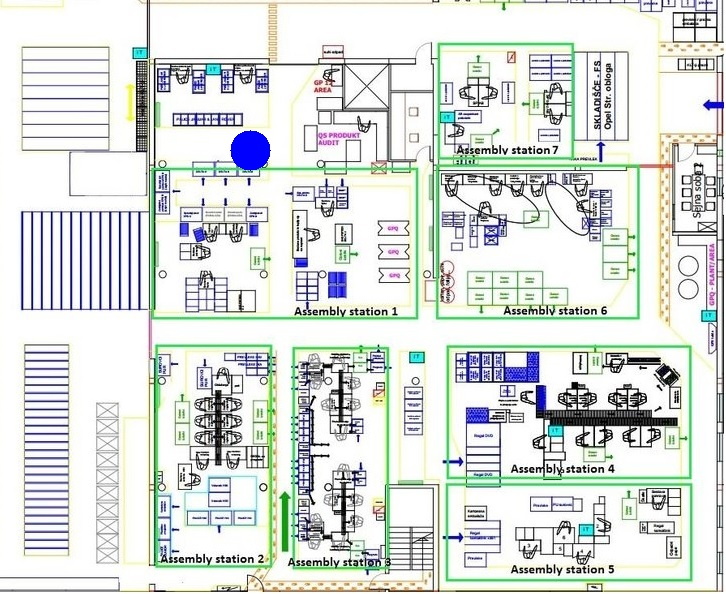
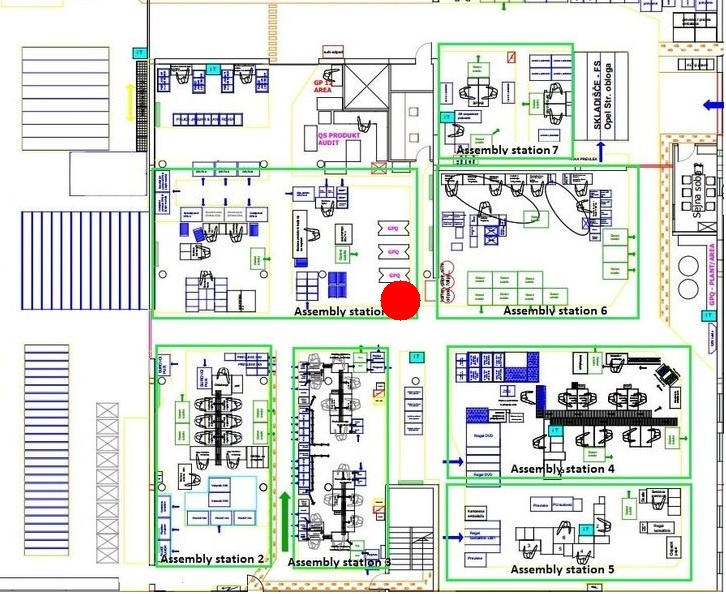
cf

Changed region(s): [[0.303, 0.2121, 0.3939, 0.303], [0.5152, 0.4545, 0.5758, 0.5455]]

diff --git a/templates/locate.html b/templates/locate.html
@@ -21,7 +21,7 @@
 
 
   <div class="text-center">
-<img src="{{ url_for('static',filename='layout.jpg') }}" class="mx-auto d-block img-thumbnail"  alt="Responsive image">
+<img src="{{ url_for('static',filename= img_path) }}" class="mx-auto d-block img-thumbnail"  alt="Responsive image">
 </div>
 </div>
 

diff --git a/webapp.py b/webapp.py
@@ -4,7 +4,8 @@ Created on Tue Jun 30 13:22:16 2020
 
 @author: PAVA
 """
-import openCV
+import cv2
+import os
 
 from flask import (
     Flask, 
@@ -12,7 +13,8 @@ from flask import (
     request, 
     redirect, 
     url_for, 
-    flash
+    flash,
+    make_response
 )
 from flask_login import (
     LoginManager,
@@ -195,18 +197,34 @@ def delete(tag_id):
 @app.route ('/locate', methods = ['GET','POST'])
 def locate():
     all_data = rtls_control.query.all()
-    return render_template('locate.html',paired_tags=all_data)
+    return render_template('locate.html',paired_tags=all_data,img_path="layout.jpg")
 
 # Tag location based on dropdown
 @app.route('/locate_tag/<tag_id>/', methods = ['GET','POST'])
 def locate_tag(tag_id):
+    
     my_data = db.session.query(tag_location).filter_by(tag_id=tag_id).first()
     if my_data is not None:
-        x = my_data.x
+        x = 400
         y = my_data.y
-        
-    
-    
+        color=(0,0,255)
+        thickness=-1
+        radius = 20   
+        directory_path = os.path.dirname(__file__)
+        file_path = os.path.join(directory_path, "static/layout.jpg")
+        new_filepath = os.path.join(directory_path, "static/layout1.jpg")
+        img=cv2.imread(file_path)
+        img1=cv2.circle(img,(x,y),radius,color,thickness)
+        cv2.imwrite(new_filepath, img1)
+        all_data = rtls_control.query.all()
+        print("vybavene")
+        response= make_response(render_template('locate.html', paired_tags=all_data, img_path="layout1.jpg"))
+        response.headers['Cache-Control'] = 'no-cache, no-store, must-revalidate, public, max-age=0'
+        response.headers["Expires"] = 0
+        response.headers['Pragma'] = 'no-cache'
+        return response  
+    else:
+        redirect(url_for('locate'))
     
 # Run function if main  
 if __name__ == '__main__':
